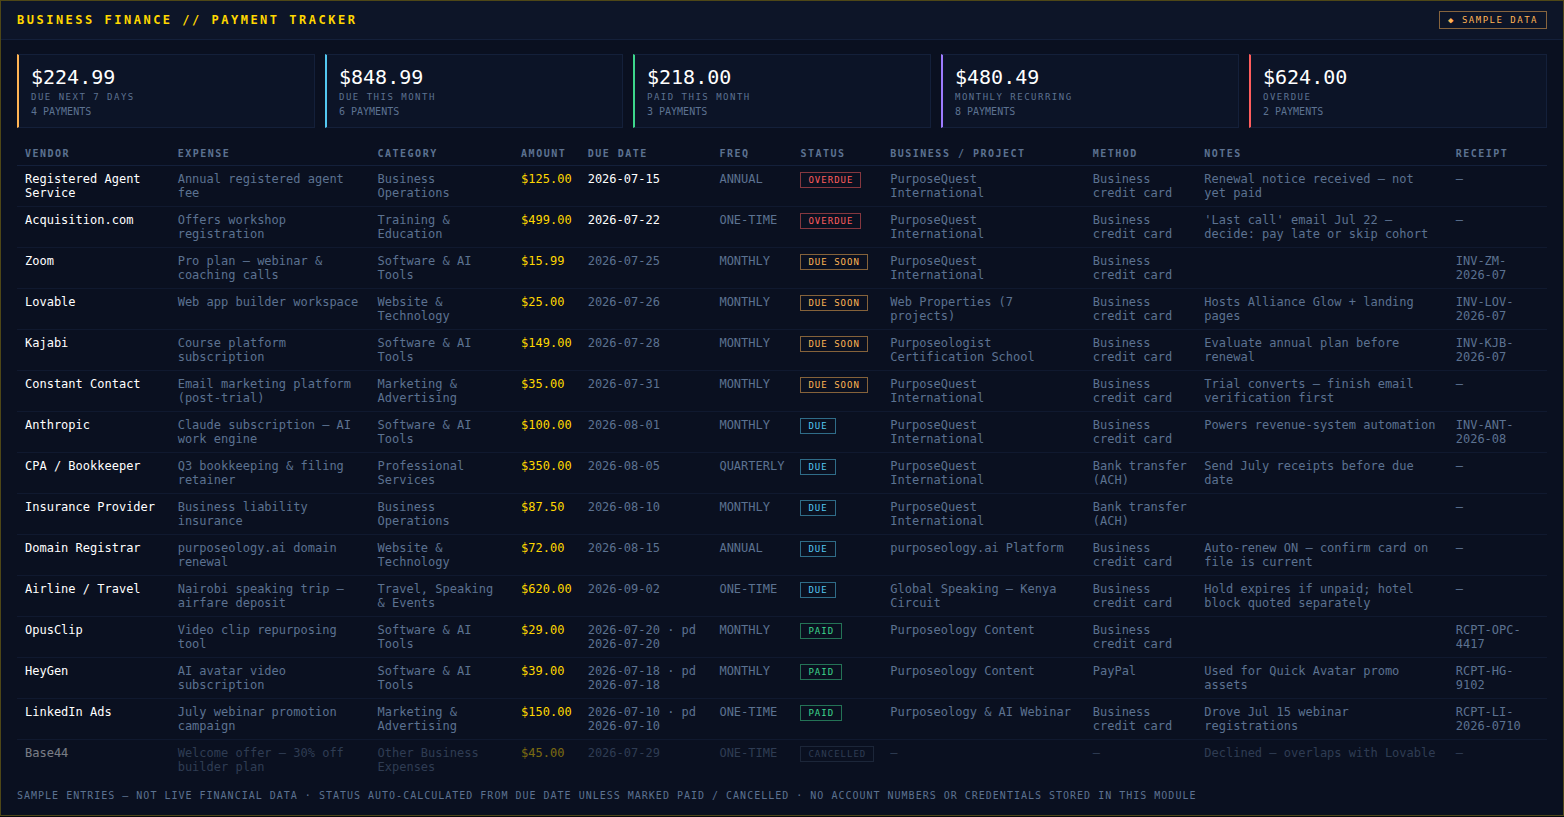
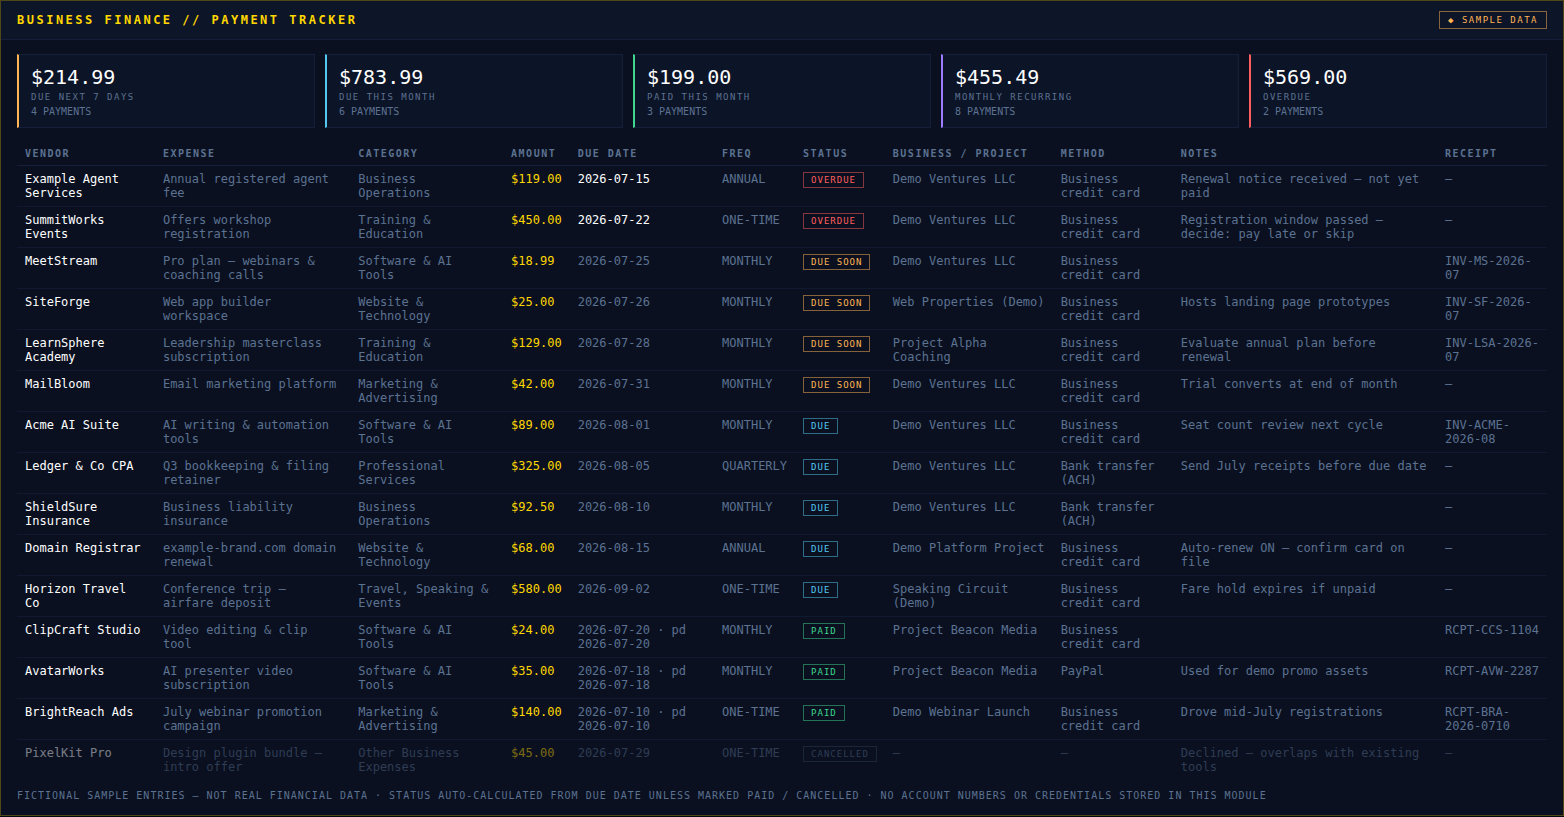
Hide payment tracker entirely in Privacy Mode; make sample data fictional
Privacy Mode (existing header toggle / body.privacy class) now fully
conceals the finance panel instead of only blurring amounts: summary
cards, totals, payment counts, and the whole table (vendors,
descriptions, amounts, due dates, projects, methods, notes, receipt
refs) are hidden and replaced with a 'PRIVATE FINANCIAL DATA HIDDEN'
notice. Turning privacy off restores the full view; the choice still
persists across reloads via the existing localStorage flag.

Also replace the sample entries in finance-data.js with clearly
fictional vendors, projects, amounts, and notes, since the repo
publishes to public GitHub Pages — the file header now forbids real
financial details outright.

Tested in Chromium: no readable financial text remains in the panel
with privacy on, both toggle directions restore correctly, and the
hidden state survives a page reload.

Claude-Session: https://claude.ai/code/session_01Ntf3A3SHWaGo8mE5qyVvb3

diff --git a/dashboard/finance-data.js b/dashboard/finance-data.js
@@ -1,14 +1,18 @@
 // ============================================================
 // PURPOSE SPHERE COMMAND CENTER — BUSINESS FINANCE DATA MODULE
 //
-// SAMPLE DATA ONLY. Every entry below is illustrative so the
-// PAYMENT TRACKER panel can be reviewed and styled. Replace the
-// `payments` array with real entries (or regenerate this file
-// from a secure backend/adapter) when connecting live data.
+// FICTIONAL SAMPLE DATA ONLY. This repo publishes to public
+// GitHub Pages, so every vendor, project, amount, date, and
+// note below is invented for layout/demo purposes and matches
+// no real transaction. Replace this file's output with a real
+// feed only via a secure server-side adapter — never by
+// committing real financial details here.
 //
 // SECURITY RULES FOR THIS FILE — it ships to the browser:
 //   - NEVER put bank credentials, account numbers, routing
 //     numbers, card numbers, or banking API keys here.
+//   - NEVER put real vendors, real amounts, real due dates,
+//     or real notes here while the repo/site is public.
 //   - `paymentMethod` is a label only (e.g. "Business credit
 //     card"), never an identifier.
 //   - A future live integration should fetch from an
@@ -20,7 +24,7 @@ window.FINANCE_DATA = {
 
   // mode "sample" makes the panel badge itself as SAMPLE DATA.
   // A live adapter should set mode: "live" and its own label.
-  source: { mode: "sample", label: "SAMPLE ENTRIES — NOT LIVE FINANCIAL DATA" },
+  source: { mode: "sample", label: "FICTIONAL SAMPLE ENTRIES — NOT REAL FINANCIAL DATA" },
 
   categories: [
     "Training & Education",
@@ -42,207 +46,207 @@ window.FINANCE_DATA = {
   payments: [
     {
       id: "PAY-001",
-      vendor: "Kajabi",
-      description: "Course platform subscription",
-      category: "Software & AI Tools",
-      amount: 149.00,
+      vendor: "LearnSphere Academy",
+      description: "Leadership masterclass subscription",
+      category: "Training & Education",
+      amount: 129.00,
       dueDate: "2026-07-28",
       frequency: "MONTHLY",
       status: null,
-      business: "Purposeologist Certification School",
+      business: "Project Alpha Coaching",
       paymentMethod: "Business credit card",
       notes: "Evaluate annual plan before renewal",
-      receiptRef: "INV-KJB-2026-07"
+      receiptRef: "INV-LSA-2026-07"
     },
     {
       id: "PAY-002",
-      vendor: "Anthropic",
-      description: "Claude subscription — AI work engine",
+      vendor: "Acme AI Suite",
+      description: "AI writing & automation tools",
       category: "Software & AI Tools",
-      amount: 100.00,
+      amount: 89.00,
       dueDate: "2026-08-01",
       frequency: "MONTHLY",
       status: null,
-      business: "PurposeQuest International",
+      business: "Demo Ventures LLC",
       paymentMethod: "Business credit card",
-      notes: "Powers revenue-system automation",
-      receiptRef: "INV-ANT-2026-08"
+      notes: "Seat count review next cycle",
+      receiptRef: "INV-ACME-2026-08"
     },
     {
       id: "PAY-003",
-      vendor: "Constant Contact",
-      description: "Email marketing platform (post-trial)",
+      vendor: "MailBloom",
+      description: "Email marketing platform",
       category: "Marketing & Advertising",
-      amount: 35.00,
+      amount: 42.00,
       dueDate: "2026-07-31",
       frequency: "MONTHLY",
       status: null,
-      business: "PurposeQuest International",
+      business: "Demo Ventures LLC",
       paymentMethod: "Business credit card",
-      notes: "Trial converts — finish email verification first",
+      notes: "Trial converts at end of month",
       receiptRef: "—"
     },
     {
       id: "PAY-004",
-      vendor: "OpusClip",
-      description: "Video clip repurposing tool",
+      vendor: "ClipCraft Studio",
+      description: "Video editing & clip tool",
       category: "Software & AI Tools",
-      amount: 29.00,
+      amount: 24.00,
       dueDate: "2026-07-20",
       frequency: "MONTHLY",
       status: "PAID",
       paidDate: "2026-07-20",
-      business: "Purposeology Content",
+      business: "Project Beacon Media",
       paymentMethod: "Business credit card",
       notes: "",
-      receiptRef: "RCPT-OPC-4417"
+      receiptRef: "RCPT-CCS-1104"
     },
     {
       id: "PAY-005",
-      vendor: "HeyGen",
-      description: "AI avatar video subscription",
+      vendor: "AvatarWorks",
+      description: "AI presenter video subscription",
       category: "Software & AI Tools",
-      amount: 39.00,
+      amount: 35.00,
       dueDate: "2026-07-18",
       frequency: "MONTHLY",
       status: "PAID",
       paidDate: "2026-07-18",
-      business: "Purposeology Content",
+      business: "Project Beacon Media",
       paymentMethod: "PayPal",
-      notes: "Used for Quick Avatar promo assets",
-      receiptRef: "RCPT-HG-9102"
+      notes: "Used for demo promo assets",
+      receiptRef: "RCPT-AVW-2287"
     },
     {
       id: "PAY-006",
-      vendor: "Lovable",
+      vendor: "SiteForge",
       description: "Web app builder workspace",
       category: "Website & Technology",
       amount: 25.00,
       dueDate: "2026-07-26",
       frequency: "MONTHLY",
       status: null,
-      business: "Web Properties (7 projects)",
+      business: "Web Properties (Demo)",
       paymentMethod: "Business credit card",
-      notes: "Hosts Alliance Glow + landing pages",
-      receiptRef: "INV-LOV-2026-07"
+      notes: "Hosts landing page prototypes",
+      receiptRef: "INV-SF-2026-07"
     },
     {
       id: "PAY-007",
       vendor: "Domain Registrar",
-      description: "purposeology.ai domain renewal",
+      description: "example-brand.com domain renewal",
       category: "Website & Technology",
-      amount: 72.00,
+      amount: 68.00,
       dueDate: "2026-08-15",
       frequency: "ANNUAL",
       status: null,
-      business: "purposeology.ai Platform",
+      business: "Demo Platform Project",
       paymentMethod: "Business credit card",
-      notes: "Auto-renew ON — confirm card on file is current",
+      notes: "Auto-renew ON — confirm card on file",
       receiptRef: "—"
     },
     {
       id: "PAY-008",
-      vendor: "Acquisition.com",
+      vendor: "SummitWorks Events",
       description: "Offers workshop registration",
       category: "Training & Education",
-      amount: 499.00,
+      amount: 450.00,
       dueDate: "2026-07-22",
       frequency: "ONE-TIME",
       status: null,
-      business: "PurposeQuest International",
+      business: "Demo Ventures LLC",
       paymentMethod: "Business credit card",
-      notes: "'Last call' email Jul 22 — decide: pay late or skip cohort",
+      notes: "Registration window passed — decide: pay late or skip",
       receiptRef: "—"
     },
     {
       id: "PAY-009",
-      vendor: "CPA / Bookkeeper",
+      vendor: "Ledger & Co CPA",
       description: "Q3 bookkeeping & filing retainer",
       category: "Professional Services",
-      amount: 350.00,
+      amount: 325.00,
       dueDate: "2026-08-05",
       frequency: "QUARTERLY",
       status: null,
-      business: "PurposeQuest International",
+      business: "Demo Ventures LLC",
       paymentMethod: "Bank transfer (ACH)",
       notes: "Send July receipts before due date",
       receiptRef: "—"
     },
     {
       id: "PAY-010",
-      vendor: "Insurance Provider",
+      vendor: "ShieldSure Insurance",
       description: "Business liability insurance",
       category: "Business Operations",
-      amount: 87.50,
+      amount: 92.50,
       dueDate: "2026-08-10",
       frequency: "MONTHLY",
       status: null,
-      business: "PurposeQuest International",
+      business: "Demo Ventures LLC",
       paymentMethod: "Bank transfer (ACH)",
       notes: "",
       receiptRef: "—"
     },
     {
       id: "PAY-011",
-      vendor: "Registered Agent Service",
+      vendor: "Example Agent Services",
       description: "Annual registered agent fee",
       category: "Business Operations",
-      amount: 125.00,
+      amount: 119.00,
       dueDate: "2026-07-15",
       frequency: "ANNUAL",
       status: null,
-      business: "PurposeQuest International",
+      business: "Demo Ventures LLC",
       paymentMethod: "Business credit card",
       notes: "Renewal notice received — not yet paid",
       receiptRef: "—"
     },
     {
       id: "PAY-012",
-      vendor: "Airline / Travel",
-      description: "Nairobi speaking trip — airfare deposit",
+      vendor: "Horizon Travel Co",
+      description: "Conference trip — airfare deposit",
       category: "Travel, Speaking & Events",
-      amount: 620.00,
+      amount: 580.00,
       dueDate: "2026-09-02",
       frequency: "ONE-TIME",
       status: null,
-      business: "Global Speaking — Kenya Circuit",
+      business: "Speaking Circuit (Demo)",
       paymentMethod: "Business credit card",
-      notes: "Hold expires if unpaid; hotel block quoted separately",
+      notes: "Fare hold expires if unpaid",
       receiptRef: "—"
     },
     {
       id: "PAY-013",
-      vendor: "LinkedIn Ads",
+      vendor: "BrightReach Ads",
       description: "July webinar promotion campaign",
       category: "Marketing & Advertising",
-      amount: 150.00,
+      amount: 140.00,
       dueDate: "2026-07-10",
       frequency: "ONE-TIME",
       status: "PAID",
       paidDate: "2026-07-10",
-      business: "Purposeology & AI Webinar",
+      business: "Demo Webinar Launch",
       paymentMethod: "Business credit card",
-      notes: "Drove Jul 15 webinar registrations",
-      receiptRef: "RCPT-LI-2026-0710"
+      notes: "Drove mid-July registrations",
+      receiptRef: "RCPT-BRA-2026-0710"
     },
     {
       id: "PAY-014",
-      vendor: "Zoom",
-      description: "Pro plan — webinar & coaching calls",
+      vendor: "MeetStream",
+      description: "Pro plan — webinars & coaching calls",
       category: "Software & AI Tools",
-      amount: 15.99,
+      amount: 18.99,
       dueDate: "2026-07-25",
       frequency: "MONTHLY",
       status: null,
-      business: "PurposeQuest International",
+      business: "Demo Ventures LLC",
       paymentMethod: "Business credit card",
       notes: "",
-      receiptRef: "INV-ZM-2026-07"
+      receiptRef: "INV-MS-2026-07"
     },
     {
       id: "PAY-015",
-      vendor: "Base44",
-      description: "Welcome offer — 30% off builder plan",
+      vendor: "PixelKit Pro",
+      description: "Design plugin bundle — intro offer",
       category: "Other Business Expenses",
       amount: 45.00,
       dueDate: "2026-07-29",
@@ -250,7 +254,7 @@ window.FINANCE_DATA = {
       status: "CANCELLED",
       business: "—",
       paymentMethod: "—",
-      notes: "Declined — overlaps with Lovable",
+      notes: "Declined — overlaps with existing tools",
       receiptRef: "—"
     }
   ]

diff --git a/dashboard/index.html b/dashboard/index.html
@@ -175,6 +175,20 @@
   .ps-OVERDUE { color: var(--red); border-color: rgba(255,93,93,.5); }
   .ps-CANCELLED { color: var(--text-dim); border-color: rgba(92,114,145,.5); }
   tr.row-cancelled td { opacity: .45; }
+  /* privacy mode: the whole tracker goes dark — vendors, amounts, dates,
+     projects, methods, notes, receipts, totals and counts all hidden */
+  .fin-privacy-msg {
+    display: none; text-align: center; padding: 38px 16px;
+    color: var(--amber); font-size: 12px; letter-spacing: 2.5px;
+  }
+  .fin-privacy-msg .sub2 {
+    display: block; margin-top: 9px;
+    color: var(--text-dim); font-size: 10px; letter-spacing: 1.5px;
+  }
+  body.privacy #panel-finance .fin-cards,
+  body.privacy #panel-finance .fin-table,
+  body.privacy #panel-finance .fin-footnote { display: none; }
+  body.privacy #panel-finance .fin-privacy-msg { display: block; }
 
   /* big stats */
   .stat-row { display: flex; gap: 20px; margin-bottom: 12px; flex-wrap: wrap; }
@@ -385,6 +399,7 @@ safe(() => {
       text: F.source?.mode === "sample" ? "◆ SAMPLE DATA" : "● LIVE DATA"
     } : undefined,
     bodyHTML: !F ? "" : `
+      <div class="fin-privacy-msg">🔒 PRIVATE FINANCIAL DATA HIDDEN<span class="sub2">TURN PRIVACY OFF TO VIEW AND MANAGE PAYMENTS</span></div>
       <div class="fin-cards">
         ${card("c-due7", sum(due7), "DUE NEXT 7 DAYS", due7.length)}
         ${card("c-month", sum(dueMonth), "DUE THIS MONTH", dueMonth.length)}
@@ -412,7 +427,7 @@ safe(() => {
             <td class="dim">${esc(r.receiptRef || "—")}</td>
           </tr>`).join("")}
       </table>
-      <div class="dim" style="margin-top:10px;font-size:10px;letter-spacing:1px">${esc(F.source?.label || "")} · STATUS AUTO-CALCULATED FROM DUE DATE UNLESS MARKED PAID / CANCELLED · NO ACCOUNT NUMBERS OR CREDENTIALS STORED IN THIS MODULE</div>`
+      <div class="dim fin-footnote" style="margin-top:10px;font-size:10px;letter-spacing:1px">${esc(F.source?.label || "")} · STATUS AUTO-CALCULATED FROM DUE DATE UNLESS MARKED PAID / CANCELLED · NO ACCOUNT NUMBERS OR CREDENTIALS STORED IN THIS MODULE</div>`
   });
 });
 
